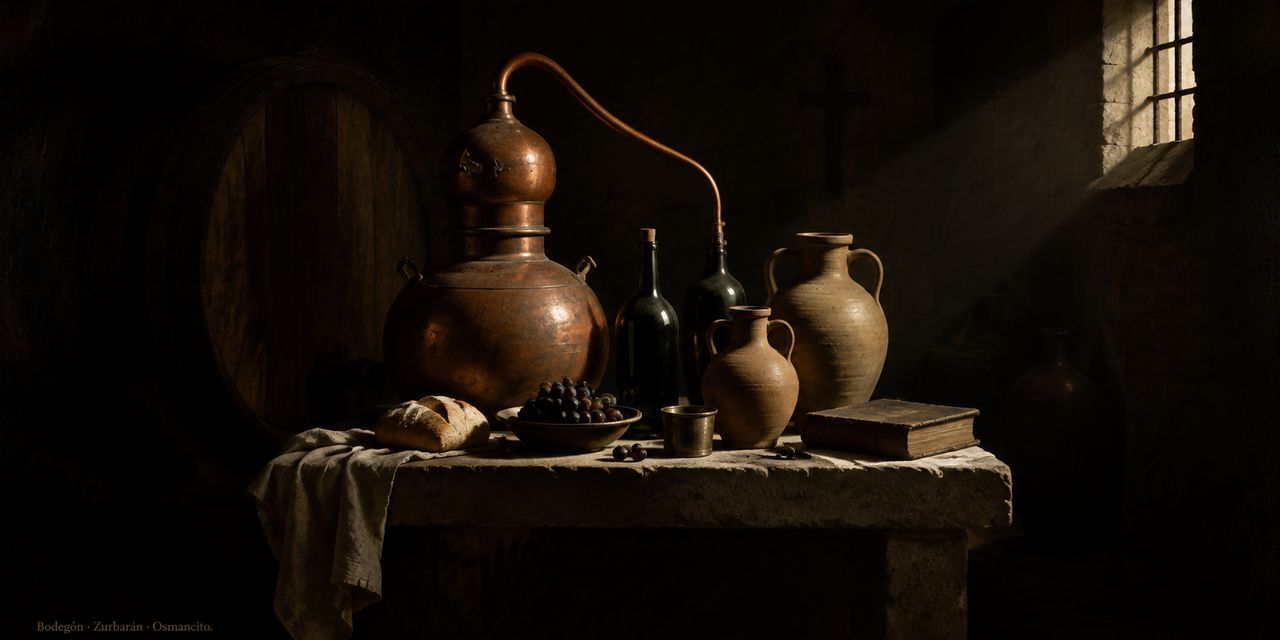
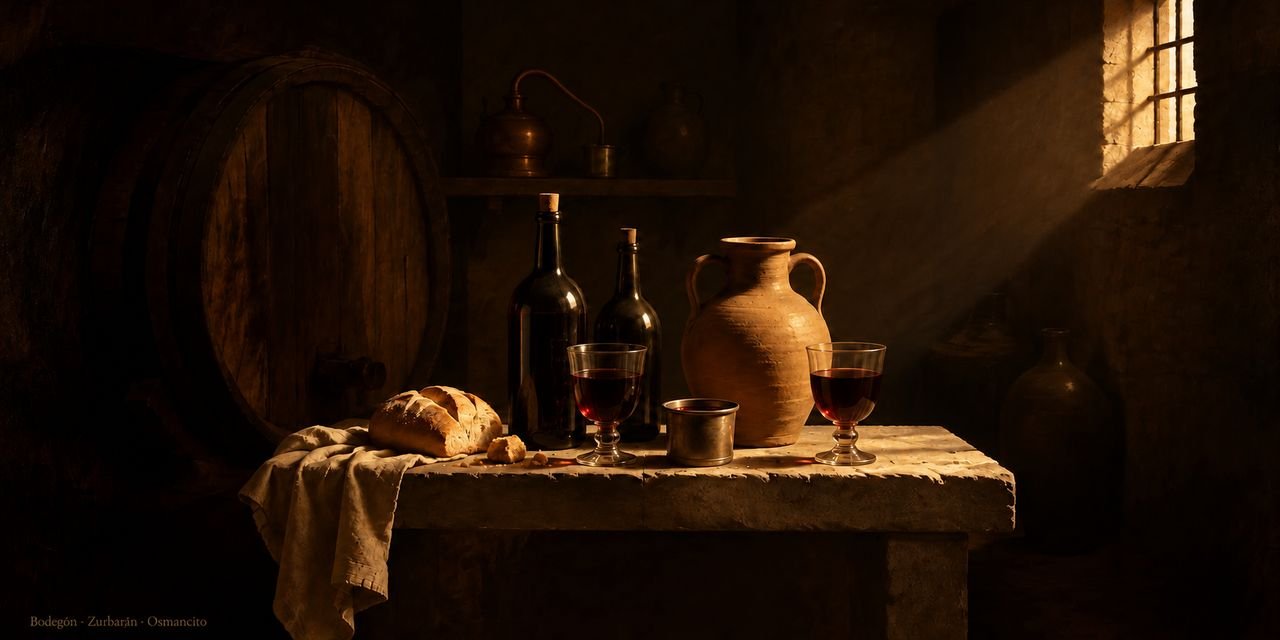
La puerta de la Destilería: la mesa servida

diff --git a/destileria.html b/destileria.html
@@ -19,7 +19,7 @@
 </head>
 <body>
 <main>
-<p><a href="https://github.com/osmancitov/destileria"><img width="1280" height="640" src="img/destileria.jpg" alt="Bodegón: alambique de cobre, botellas, jarras, pan y uvas sobre una mesa de piedra"></a></p>
+<p><a href="https://github.com/osmancitov/destileria"><img width="1280" height="640" src="img/destileria.jpg" alt="Bodegón: vino servido en copas y jarro, botellas, tinaja y pan sobre una mesa de piedra; el alambique descansa al fondo"></a></p>
 <h1 id="destilería">Destilería</h1><p>Una destilería es un lugar donde se destila: se separa una sustancia mediante evaporación y condensación. <em>Destilar</em> viene del latín <em>destillare</em>: caer gota a gota.</p><p>Aquí se ensaya algo parecido con los libros: quitar lo que sobra hasta encontrar una forma breve que conserve su fuerza y se pueda contar a otro. Es una hipótesis de trabajo, no una promesa cumplida.</p><ul><li><a href="html/cgbabf_todo-es-una-voz.html">Todo es una voz: una glosa de Victor Hugo</a>: «todo es una voz y todo es un perfume», leído con calma.</li><li><a href="html/cgbabe_ce-que-dit-la-bouche-dombre.html">Ce que dit la bouche d’ombre: un poema de Victor Hugo</a>: el poema entero de donde viene la hidra Universo, en francés y en castellano.</li><li><a href="html/cgbabf_el-otro.html">El Otro: un Cuento de Borges</a>: el primer cuento de El Libro de Arena, solo, para leerlo con calma.</li><li><a href="html/cgbabc_arena-puentes.html">El Libro de Arena: trece cuentos</a>: una lectura breve de los cuentos de Jorge Luis Borges.</li><li><a href="html/cgbabc_macbeth-en-castellano.html">Macbeth en castellano</a>: la obra entera.</li><li><a href="html/cgbaaj_macbeth-ocho-frases.html">Macbeth en ocho frases</a>: la frase más central de cada uno de ocho lectores, unidas por una línea.</li><li><a href="bodega-103/index.html">Bodega 103</a>: Recuerdos de la primera Destilería.</li></ul>
 <p><a href="https://osmancitov.github.io/">volver</a></p>
 </main>

diff --git a/index.html b/index.html
@@ -19,7 +19,7 @@
 </head>
 <body>
 <main>
-<p><a href="destileria.html"><img width="1280" height="640" src="img/destileria.jpg" alt="Bodegón: alambique de cobre, botellas, jarras, pan y uvas sobre una mesa de piedra"></a></p>
+<p><a href="destileria.html"><img width="1280" height="640" src="img/destileria.jpg" alt="Bodegón: vino servido en copas y jarro, botellas, tinaja y pan sobre una mesa de piedra; el alambique descansa al fondo"></a></p>
 </main>
 </body>
 </html>
